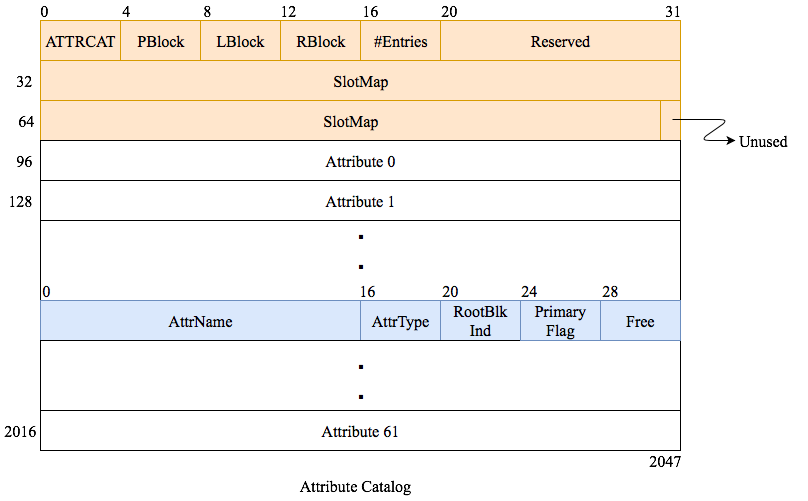
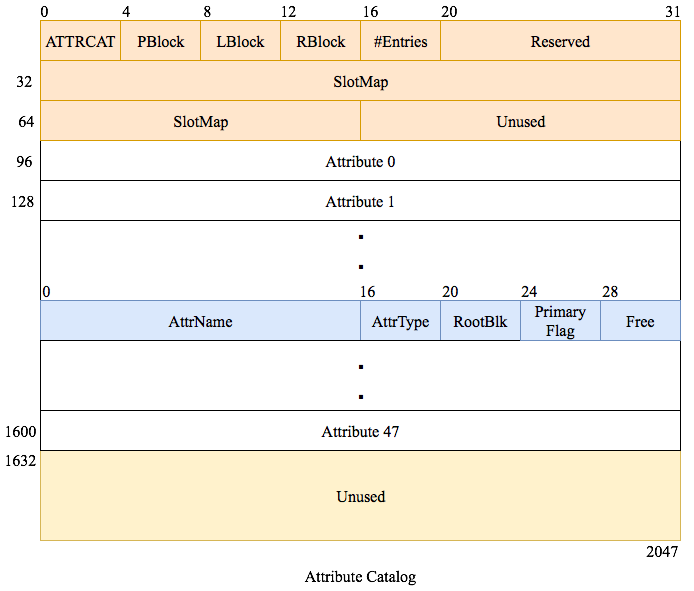
old design doc with fixed attributes

diff --git a/storage-model.html b/storage-model.html
@@ -42,7 +42,7 @@
             <div class="pagetitle"><h1>Storage Model</h1></div>
             
             <div id="disk_model" class="detail">
-                <h2>Disk Model</h2>
+                <h2>Disks Model</h2>
                 <p>Nitcbase assumes that disk is a sequence of blocks and a block is a sequence of bytes. The disk consists of 8192 blocks and a block is of 2048 bytes. Hence there is a total of 16MB of storage. Disk blocks are indexed from 0 to 8191. </p>
                 <p> Block# 0-3 are reserved for storing Block allocation map where as Block# 4 is for storing Database Catalog. Block allocation map tells us whether a particular block is free or occupied and requires one byte per each block. Hence a total of 8192/2048=4 blocks are required for Block allocation map. The following figure summarizes the disk structure. </p>
                 <center><img src="img/disk_model.png"></center>
@@ -56,14 +56,15 @@
                 <p>A record block stores the actual data records. The record block is divided into slots of size 256 Bytes each. Each slot stores a single record. Each block can have a maximum of 7 slots/records. In addition to data records, each block also stores meta data in preamble/header which occupies the first 256 Bytes of the record block.</p>
                 <center><img src="img/record_block.png"></center>
                 <p>First four bytes(0-3) of header are used to identify the type of block(REC/IND/DBCAT/RELCAT/ATTRCAT) where REC represents a record block. Next four bytes(4-7) are used for storing parent block pointer which has no significance for a record block and can be set to -1. Byte# 8-11 and 12-15 are used for storing Left and right block numbers respectively. Next four bytes are used for storing number of records currently stored in the block whose value can range from 0 to 7. Bytes 20-31 are reserved for future use.</p>
-                <p> Slotmap is used for knowing whether a slot is occupied or free. It is of 7 bytes, one for each slot. If a slot is free, its corresponding entry in slotmap will be 0 else it will be 1. Slotmap occupies 32-38 bytes of the header. Rest of the bytes in the header i.e., 39-255 are unallocated.</p>
+                <p> Slotmap is used for knowing whether a slot is occupied or free. It is of 7 bytes, one for each slot. If a slot is free, its corresponding entry in slotmap will be 0 else it will be 1. Slotmap occupies 32-38 bytes of the header. Note that the number of non-zero entries in the slotmap must match with the value in the #Entries field.  
+                Rest of the bytes in the header i.e., 39-255 are unallocated.</p>
                 <p>A Record can have a maximum of 16 attributes and an attribute can have a maximum of 16 Bytes. Each attribute is alloted a fixed size of 16 bytes and hence each record is alloted a fixed size of 256 bytes in disk.</p>
                 
             </div>
             
             <div id="index_blk" class="detail">
                 <h2>Index block structure</h2>
-                <p>Nitcbase uses the B-Tree data structure for indexing records in a relation.  The DBMS maintains at least one index per relation (and possibly more on requirement).  Corresponding to each index of a relation, the DBMS mantains a B-Tree to store the indices.  Each node of a B-Tree is stored into a block in the disk.  A disk block that stores a node of a B-Tree is called an index block.   Each index block in Nitcbase is designed to store a maximum of 55 indices.  An index is a 3-tuple (attribute value, block number, slot number).  Each index in a B-Tree node also has an associated pair of left and right child block pointers.  Hence, in addition to the indices, each index block is required to store a total of 56 child pointers. (Only 56 Child pointers are required because the right child of one index is the same as the left child of the next index).</p>
+                <p>Nitcbase uses the <a href="https://en.wikipedia.org/wiki/B-tree">B-Tree</a> data structure for indexing records in a relation.  The DBMS maintains at least one index per relation (and possibly more on requirement).  Corresponding to each index of a relation, the DBMS mantains a B-Tree to store the indices.  Each node of a B-Tree is stored into a block in the disk.  A disk block that stores a node of a B-Tree is called an index block.   Each index block in Nitcbase is designed to store a maximum of 55 indices.  An index is a 3-tuple (attribute value, block number, slot number).  Each index in a B-Tree node also has an associated pair of left and right child block pointers.  Hence, in addition to the indices, each index block is required to store a total of 56 child pointers. (Only 56 Child pointers are required because the right child of one index is the same as the left child of the next index).</p>
                 <center><img src="img/index_block.png"></center>
                 <p>An index block is divided into three parts.  The first 32 bytes contain a header, the next 1760 bytes store the indices, the following 224 bytes store the child pointers and the last 32 bytes are unused.  The header contains meta data similar to that of a record block. The first four bytes of the header stores the value IND.  PBlock is the Block# of parent block in the B-Tree. LBlock and RBlock have no significance for an index block. #Entries field stores the actual number of indices stored in the block. The remaining space in the header are left unused.</p>
                 
@@ -79,7 +80,7 @@
             <div class="pagetitle"><h1>Catalog structures</h1></div>
             
             <div class="detail" id="intro">
-                <p>A relational database has a number of catalogs for storing the meta data information about databases, relations, attributes, indexes etc. In addition to storing these catalogs in disk, a DBMS also caches some of them in memory for quick access. Such cache is called Catalog cache. Nitcbase uses three types of catalogs for storing the meta data.  </p>
+                <p>A relational database has a number of catalogs for storing the meta data information about databases, relations, attributes, indexes etc. Nitcbase uses three types of catalogs for storing the meta data.  </p>
                 <ol>
                     <li>Database Catalog</li>
                     <li>Relation Catalog</li>
@@ -91,11 +92,11 @@
             
             <div class="detail" id="dbcat">
                 <h2>Database Catalog</h2>
-                <p>Nitcbase stores database catalog in Block# 4 of the disk. Every database has an entry corresponding to itself in database cataog. Since there are 62 entries in Database Catalog block, a maximum of 62 databases are permitted in total. Each entry in database catalog is of size 32 bytes. Database catalog has three attributes- DBName, RelCat_Index and #Relations. In each entry of database catalog, DBName(0-15 bytes) stores the name of the database, RelCat_Index(16-19 bytes) stores the  Block# of relation catalog for the database and #Realtions(20-23 bytes) specify the current number of relations present in the database, next 8 bytes(24-31) are left unused. In addition to Database Catalog information, this block also stores meta data in preamble/header which occupies the first 96 Bytes of the Database Catalog block. The structure of which can be inferred from the figure. </p>
+                <p>Nitcbase stores database catalog in Block# 4 of the disk. Every database has an entry corresponding to itself in database cataog. Since there are 62 entries in the Database Catalog block, a maximum of 62 databases are permitted in total. Each entry in the database catalog is of size 32 bytes. Database catalog has three attributes- DBName, RelCat_Index and #Relations. In each entry of the database catalog, DBName(0-15 bytes) stores the name of the database, RelCatBlk(16-19 bytes) stores the  Block# of relation catalog for the database, #Relations(20-23 bytes) specify the current number of relations present in the database and the next 8 bytes(24-31) are unused. In addition to Database Catalog information, this block also stores meta data in a preamble/header.  The header occupies the first 96 Bytes of the Database Catalog block. The structure of the database catelog can be inferred from the figure. </p>
                 
-                <p>The first four bytes of the header stores the value DBCAT which represents, the block is currently storing Database Catalog. PBlock, LBlock and RBlock have no significance for a Database Catalog block. #Entries field stores the actual number of Database Catalog entries stored in the block(which represents number of databases currently present in the system).Next 8 bytes(byte# 24-31) are reserved for future use, Slotmap occupies next 62 bytes(byte# 32-93)(can be seen in figure), where each byte corresponds to one entry in the database catalog. The remaining 2bytes of header(byte#- 94-95) are left unused.
+                <p>The first four bytes of the header stores the value DBCAT which indicates that the block is currently storing the Database Catalog. PBlock, LBlock and RBlock have no significance for the Database Catalog block. #Entries field stores the actual number of Database Catalog entries stored in the block (and represents number of databases currently present in the system). The next 8 bytes(byte# 24-31) are reserved for future use, Slotmap occupies the next 62 bytes(byte# 32-93)(can be seen in figure), where each byte corresponds to one entry in the database catalog. The remaining 2 bytes of header(byte#- 94-95) are left unused.
 
- </p>
+                </p>
  		
                 <center><img src="img/db_cat.png"></center>
                
@@ -103,13 +104,13 @@
             
             <div class="detail" id="relcat">
                 <h2>Relation Catalog</h2>
-                <p>Relation Catalog stores meta information regarding relations in a database. Each database has a relation catalog. Each entry in Relation Catalog is of size 64 bytes and has the fallowing attributes: RelName, #Attributes, AttrCat_Index, #Records and RecBlk_Index.In each entry, RelName(byte# 0-15) stores name of the relation, #Attributes(byte# 16-19) stores number of attributes of the relation, AttrCat_Index(byte# 20-23) stores the block number of Attribute Catalog of the relation, #Records(byte# 24-27) stores the number of records currently stored in the relation and FirstBlkInd (byte# 24-27) stores the block number of the first record blocks of the relation. Since record blocks are arranged as linked list, FirstBlkInd essentially stores head of the linked list, next 32 bytes of each entry(byte# 32-63) are kept free. Nitcbase allocates one block for a relation catalog, which contains 30 entries, Hence a database can have a maximum of 30 relations.</p>
+                <p>Correspoding to each database in Nitcbase (that is, each entry in the database catalog), a Relation Catalog entry that stores the meta information regarding relations in the database needs to be maintained. Hence, each database has a relation catalog. Each entry in a Relation Catalog is of size 64 bytes and has the following attributes: RelName, #Attributes, AttrCat_Index, #Records and RecBlk_Index. In each entry, RelName(byte# 0-15) stores name of the relation, #Attributes(byte# 16-19) stores number of attributes of the relation, AttrCatBlk(byte# 20-23) stores the block number of Attribute Catalog of the relation, #Records(byte# 24-27) stores the number of records currently stored in the relation and FirstBlk (byte# 24-27) stores the block number of the first record block of the relation. Since record blocks are arranged as a linked list, FirstBlkInd essentially stores head of the linked list.  The next 32 bytes of each entry(byte# 32-63) are kept free. Nitcbase allocates one block for each relation catalog.  Since a maximum of 31 entries can be stored in a block, a database in Nitcbase can have a maximum of 31 relations.</p>
                 
-                <p>Relation Catalog block also stores the meta data about the block in preamble/header which occupies the first 128 Bytes of the Relation Catalog block.  The structure of which can be inferred from the figure. </p>
+                <p>Relation Catalog block also stores the meta data about the block in a preamble/header that is stored in the first 64 Bytes of the Relation Catalog block.  The structure of the Relation Catalog can be inferred from the figure. </p>
                 
-                <p>The first four bytes of the header stores the value RELCAT which represents the block is currently storing Relation Catalog. PBlock, LBlock and RBlock have no significance for a Relation Catalog block. #Entries field(byte# 16-19) stores the actual number of Relation Catalog entries stored in the block.byte# 20-31 are kept reserved for future use. Slotmap occupies next 30 bytes(byte# 32-61), where each byte corresponds to one entry in the Relation catalog. The remaining 1byte of header(byte#- 62) is left unused. 
+                <p>The first four bytes of the header stores the value RELCAT which indicates that the block is currently storing a Relation Catalog. PBlock, LBlock and RBlock have no significance for a Relation Catalog block. #Entries field(byte# 16-19) stores the actual number of Relation Catalog entries stored in the block. Byte# 20-31 are kept reserved for future use. Slotmap occupies next 31 bytes(byte# 32-62), where each byte corresponds to one entry in the Relation catalog. The remaining 1 byte of header(byte#- 63) is left unused. 
 
- </p>
+                </p>
  
                 <center><img src="img/rel_cat.png"></center>
                 
@@ -118,12 +119,13 @@
             
             <div class="detail" id="attrcat">
                 <h2>Attribute Catalog</h2>
-                <p>Attribute Catalog stores meta information regarding every attribute of a relation. There is an attribute catalog corresponding to every relation. Each entry of attribute catalog has fallowing attributes: AttrName, AttrType and RootBlk_Index where Attrname is name of the attribute and Attrtype is data type of the attribute, Nitcbase permits three data types for attributes. They are integer, floating point numbers and strings(of maximum size 16). Nitcbase uses B-Tree for indexing. RootBlk_Index stores the root block number of the B-Tree if there is an index created on the attribute else it contains -1.size of Attribute Catalog is one block which contains 62 entries, so we can use maximum of 62 attributes for each relation, but effectively we use only 16 entries, as Nitcbase permits a maximum of 16 attributes per relation. details of same can be inferred from the figure. </p>
-                <p>just like all other block types, Attribute Catalog also stores the meta data about the block in preamble/header which occupies the first 96 Bytes of the Attribute Catalog block.  </p>
+                <p>Corresponding to each relation in each database in Nitcbase, an attribute catalog is maintained. (Thus, corresponding to each Database in the Database Catalog, there is a Relation Catalog; and corresponding to each relation in every Relation Catalog, there is an Attibute Catalog.) Each Attribute Catalog stores the meta information regarding every attribute of the corresponoding relation.  Each entry in the Attribute Catalog of a relation has the following fields: AttrName, AttrType, RootBlk and Primary Flag.  Attrname is the name of the attribute and Attrtype is the data type of the attribute.  Nitcbase permits three data types for attributes. They are integer, float and string (of maximum 16 characters). Nitcbase uses the <a href="https://en.wikipedia.org/wiki/B-tree">B-Tree</a> data structure for indexing. The RootBlk field of an Attribute Catalog entry stores the root block number of the corresponding indexing B-Tree whenever an index has been created on the attribute.  (The value is set to -1 otherwise.)  Since Nitcbase permits a maximum of 16 attributes for a relation, each Attribute Catalog  contains 16 entries. (If a relation has fewer than 16 attributes, some of the attribute catalog entries of the relation will be unsused.  The values of all the fields of unused attribute catalog entries are set to -1.) The structure of an Attribute Catalog
+                can be inferred from the figure. </p>
+                <p>A disk block can store upto three attibute catalogs.  As in other block types, Attribute Catalog also stores the meta data about the block in a preamble/header which occupies the first 96 Bytes of the Attribute Catalog block.  </p>
                 
-                <p>The first four bytes of the header stores the value ATTRCAT which represents the block is currently storing Attribute Catalog. PBlock, LBlock and RBlock have no significance for a Attribute Catalog block. #Entries field(byte# 16-19) stores the actual number of Attribute Catalog entries stored in the block.byte# 20-31 are kept reserved for future use.  Slotmap occupies next 62 bytes(byte# 32-93), where each byte corresponds to one entry in the Attributes catalog. The remaining 2bytes of header(byte#- 94-95) is left unused.
+                <p>The first four bytes of the header stores the value ATTRCAT which indicates that the block is currently storing an Attribute Catalog. PBlock, LBlock and RBlock have no significance for an Attribute Catalog block. #Entries field (byte# 16-19) stores the actual number of Attribute Catalog entries stored in the block. Byte# 20-31 are kept reserved for future use.  Slotmap occupies the next 48 bytes(byte# 32-79), with each byte corresponding to an entry in the Attributes catalog. The remaining  16 bytes of the header(byte#- 80-95) are left unused.
 
- </p>
+                </p>
                 <center><img src="img/attr_cat.png"></center>
             </div>
             

diff --git a/css/style.css b/css/style.css
@@ -7,7 +7,7 @@ html
 
 body
 { 
-    font: normal 0.95em 'trebuchet ms', arial, sans-serif;
+    font: normal 0.95em 'trebuchet ms', sans-serif, arial;
     background: #FFF;
     color: #555;
     line-height: 1.6;
